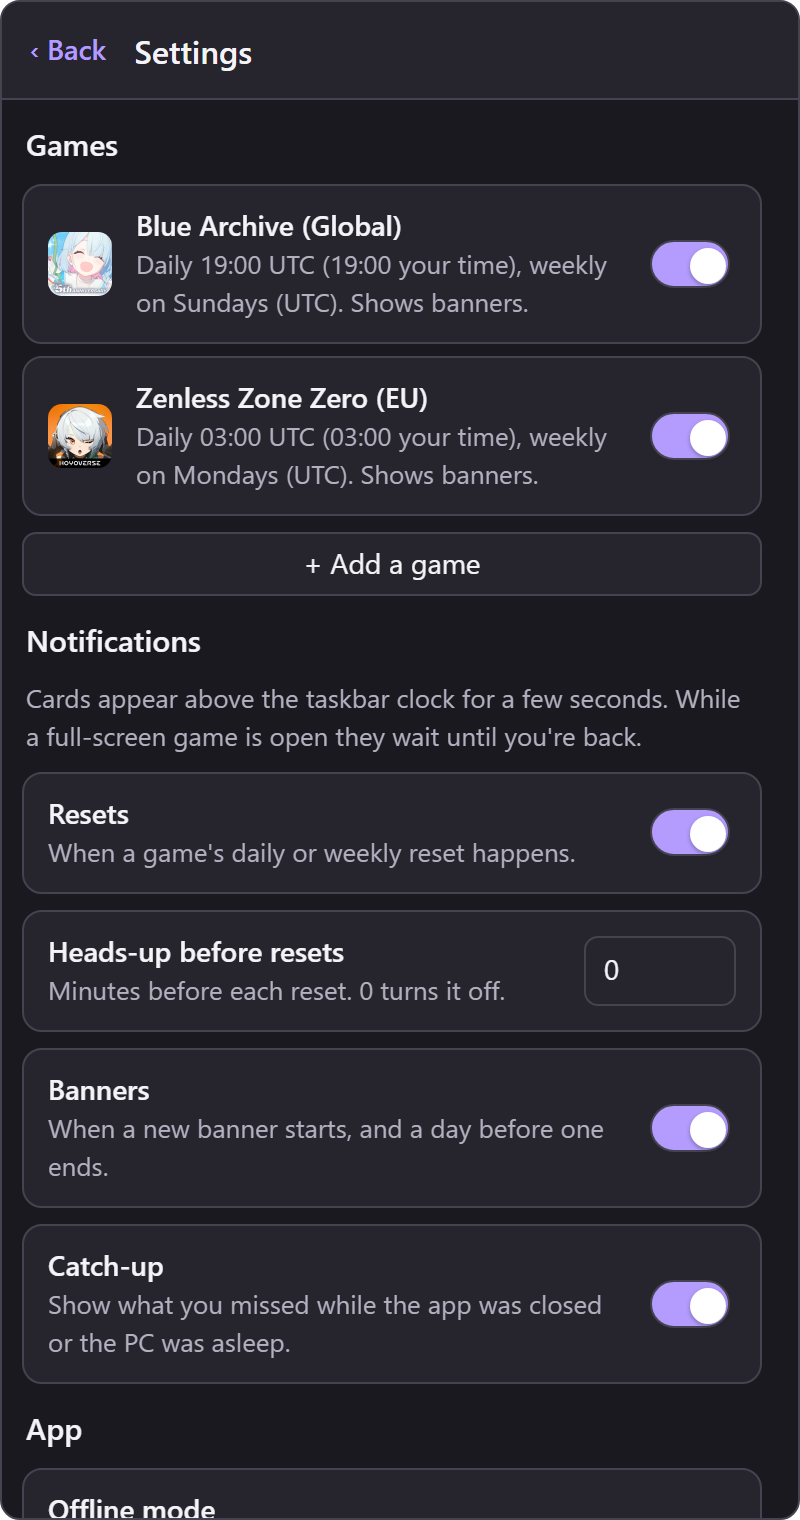
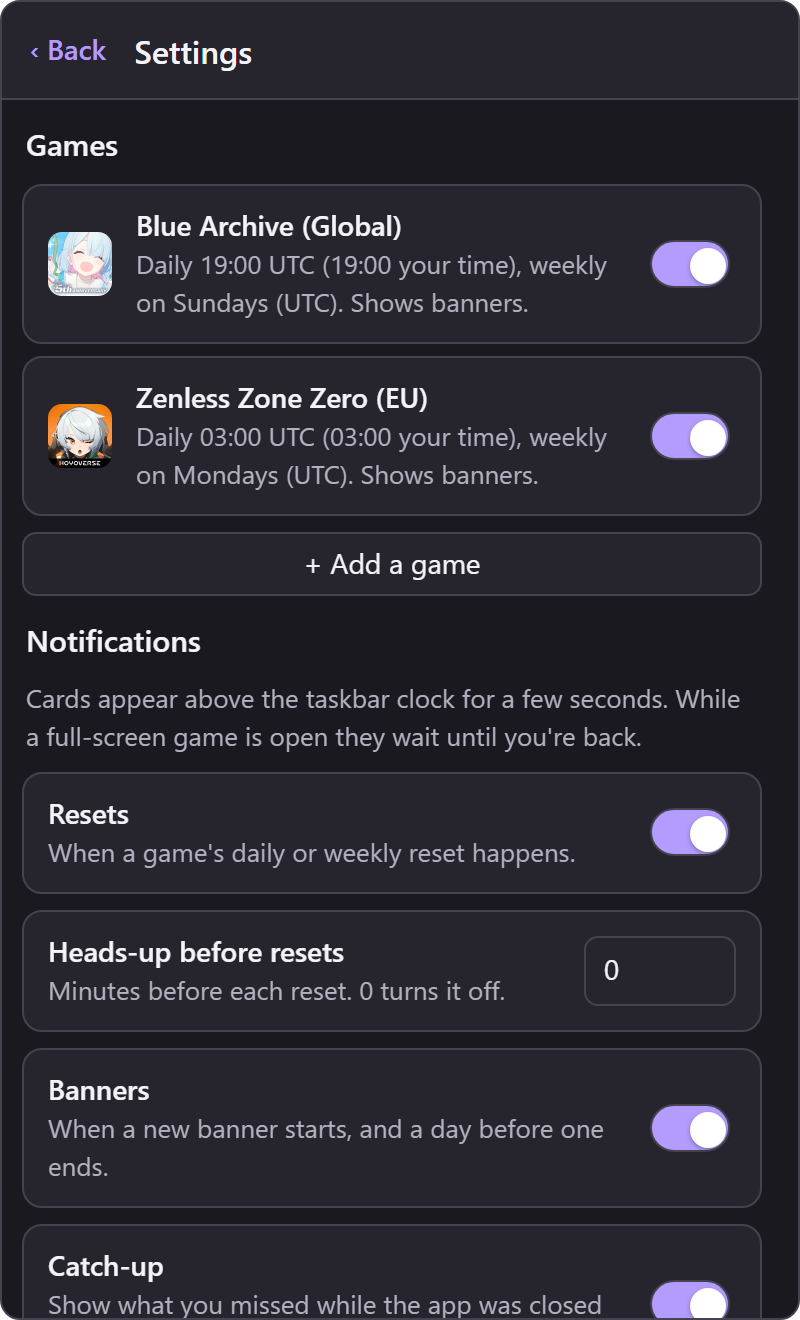
Tidy the README screenshots
Four same-size popup shots in one captioned row; the three notification
cards joined into one image on a single backdrop, beside a short panel with
the taskbar widget at its real size.

diff --git a/README.md b/README.md
@@ -2,32 +2,36 @@
 
 A small Windows app that counts down to game resets and shows the current and upcoming banners for Blue Archive and Zenless Zone Zero. It sits on the taskbar next to the clock, showing the next two resets (`BA 02:15:07`, `ZZZ 10:15:07`); click it for the popup, right-click for the menu. Small cards pop up above it when a game resets or a banner goes live.
 
-<p align="center">
-  <img src="docs/screenshots/popup-dark.png" width="340" alt="The popup in dark mode: Blue Archive and Zenless Zone Zero cards with daily and weekly reset countdowns and the current banners">
-  &nbsp;
-  <img src="docs/screenshots/popup-light.png" width="340" alt="The same popup in light mode">
-</p>
+<table align="center">
+  <tr>
+    <td align="center"><img src="docs/screenshots/popup-dark.png" width="190" alt="The popup in dark mode: Blue Archive and Zenless Zone Zero cards with daily and weekly reset countdowns and the current banners"></td>
+    <td align="center"><img src="docs/screenshots/popup-light.png" width="190" alt="The same popup in light mode"></td>
+    <td align="center"><img src="docs/screenshots/upcoming.png" width="190" alt="Upcoming banners opened into a timeline: each banner's start date, length and characters"></td>
+    <td align="center"><img src="docs/screenshots/settings.png" width="190" alt="Settings: games with their reset times, and notification switches with a line explaining each"></td>
+  </tr>
+  <tr>
+    <td align="center"><sub><b>Resets and banners</b></sub></td>
+    <td align="center"><sub><b>Light mode</b></sub></td>
+    <td align="center"><sub><b>Upcoming timeline</b></sub></td>
+    <td align="center"><sub><b>Settings</b></sub></td>
+  </tr>
+</table>
 
-## Screenshots
+<table align="center">
+  <tr>
+    <td><img src="docs/screenshots/cards.png" width="408" alt="Three notification cards: Blue Archive (Global) has reset; New Blue Archive banner listing Ibuki, Neru, Rio and Iroha; While you were away, listing missed resets one per line"></td>
+    <td width="300">
+      <b>Notification cards</b><br>
+      <sub>Appear above the taskbar widget (or beside the popup) and fade after a few seconds. Several at once become one card. These were made with the Testing buttons in Settings, hence "[Test]".</sub>
+      <br><br>
+      <b>On the taskbar</b><br>
+      <img src="docs/screenshots/widget.png" width="82" alt="Taskbar widget showing BA 13:53:52 and ZZZ 21:53:52"><br>
+      <sub>Just left of the clock: the next two resets. Click for the popup, right-click for the menu.</sub>
+    </td>
+  </tr>
+</table>
 
-**On the taskbar**, just left of the clock, the next two resets tick down. Click for the popup, right-click for the menu.
-
-<img src="docs/screenshots/widget.png" width="164" alt="Taskbar widget showing BA 14:02:34 and ZZZ 22:02:34">
-
-**Notification cards** appear above the widget (or beside the popup), with the game's icon, then fade after a few seconds. Several at once become one card. These were made with the Testing buttons in Settings, hence "[Test]".
-
-<p>
-  <img src="docs/screenshots/card-reset.png" width="392" alt="Card: Blue Archive (Global) has reset. Reset 9h 58m ago. Next reset in 14h 3m.">
-  <img src="docs/screenshots/card-banner.png" width="392" alt="Card: New Blue Archive banner, listing Ibuki, Neru, Rio and Iroha with when it ends">
-  <img src="docs/screenshots/card-summary.png" width="392" alt="Card: While you were away, listing missed resets one per line">
-</p>
-
-| Upcoming banners | Settings |
-|---|---|
-| <img src="docs/screenshots/upcoming.png" width="340" alt="Upcoming banners opened into a timeline: each banner's start date, length and characters"> | <img src="docs/screenshots/settings.png" width="340" alt="Settings: games with their reset times, and notification switches with a line explaining each"> |
-| Closed, it previews the next banner; open, it's a timeline of every announced one. | Every setting says what it does. A Testing section at the bottom tries notifications and catch-up on demand. |
-
-Screenshots taken on 18 November 2026 with the banner data stored at the time.
+<p align="center"><sub>Screenshots taken on 18 November 2026 with the banner data stored at the time.</sub></p>
 
 ## Features
 
